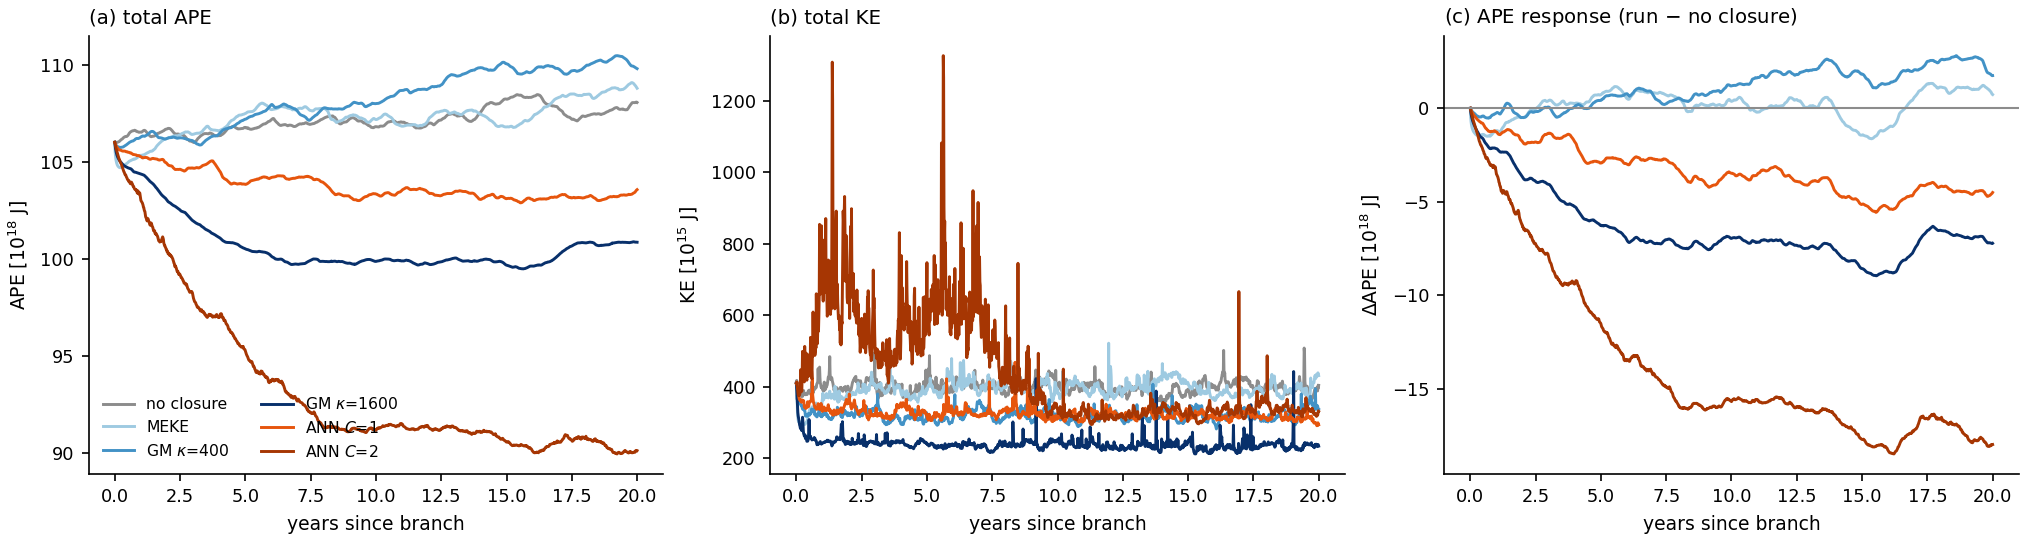
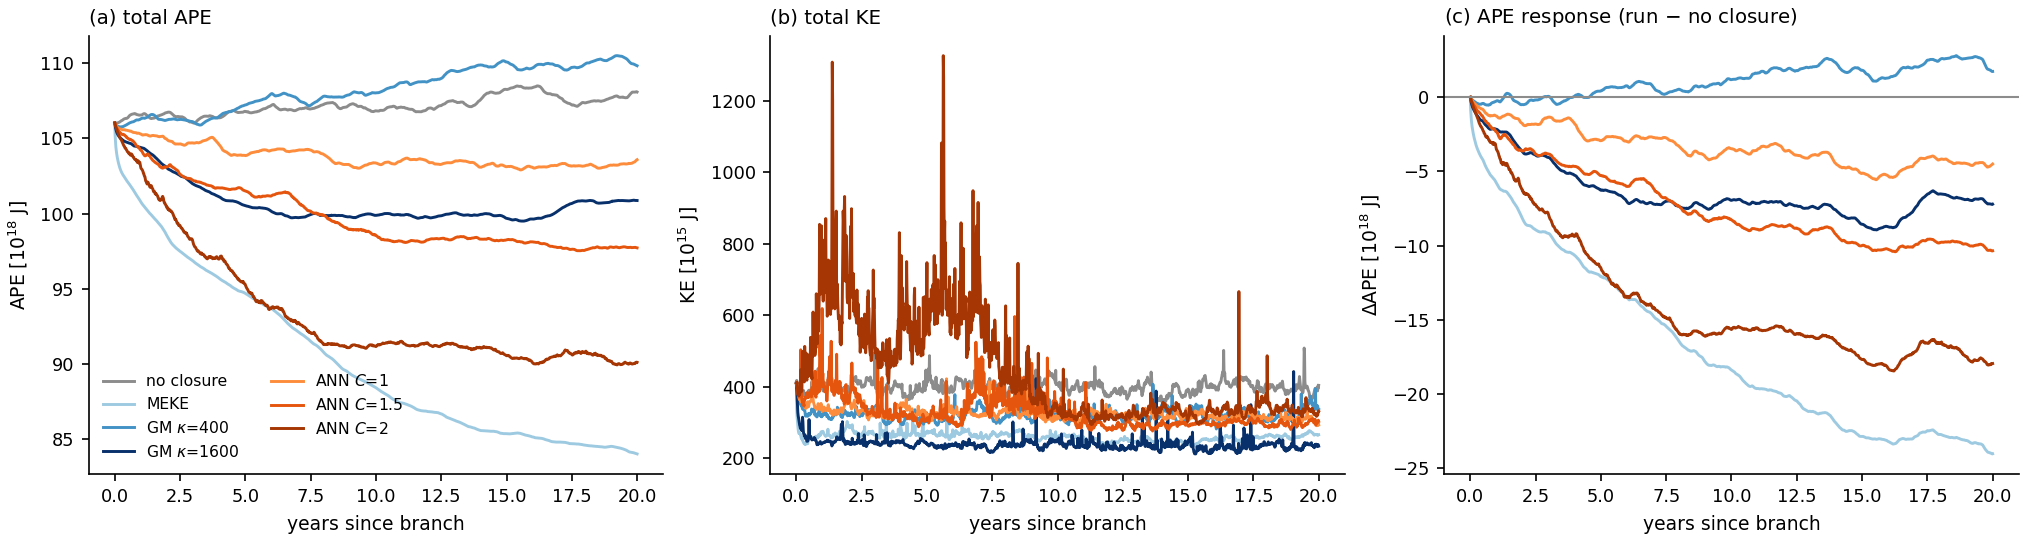
NW2: MEKE fixed + ANN C=1.5 -- C-scaling is smooth, MEKE is now the strongest closure
ANN APE response scales near-linearly (-4.6/-10.3/-18.0 for C=1/1.5/2), so C=2 is not anomalous in
APE and there is no self-limiting saturation in NW2 -- unlike the channel. KE meanwhile is
non-monotonic (77/78/84%), so tripling the APE removal costs no eddy energy: the opposite of the
diffusive trade-off. C=1.5 is the well-behaved case to rest that on (APE -10.3 vs GM1600's -7.2 at
KE 78% vs 61%). MEKE with GMCOEFF=1.0 restored is now the strongest actor (-24.0, KE 69%),
confirming the earlier diagnosis of a dead energy budget.

Claude-Session: https://claude.ai/code/session_013YxY5kSiCrM21jUwV4Z6dE

diff --git a/src/training-on-CM2.6/scripts/nw2_energy_timeseries.py b/src/training-on-CM2.6/scripts/nw2_energy_timeseries.py
@@ -14,7 +14,8 @@ import matplotlib; matplotlib.use("Agg"); import matplotlib.pyplot as plt
 B = "/scratch/db194/mom6/jul2026_nw2"
 RUNS = [("bare", "no closure", "#8c8c8c"), ("MEKE", "MEKE", "#9ecae1"),
         ("GM400", "GM $\\kappa$=400", "#4292c6"), ("GM1600", "GM $\\kappa$=1600", "#08306b"),
-        ("ANN_c1p0", "ANN $C$=1", "#e6550d"), ("ANN_c2p0", "ANN $C$=2", "#a63603")]
+        ("ANN_c1p0", "ANN $C$=1", "#fd8d3c"), ("ANN_c1p5", "ANN $C$=1.5", "#e6550d"),
+        ("ANN_c2p0", "ANN $C$=2", "#a63603")]
 
 d = {}
 for r, lab, c in RUNS:

diff --git a/src/training-on-CM2.6/scripts/nw2_first_look.py b/src/training-on-CM2.6/scripts/nw2_first_look.py
@@ -4,7 +4,7 @@ buoyancy closure by default, so bare is a true zero-closure reference). Last 5 w
 drop the adjustment measured in nw2_adjustment_timescale.py."""
 import numpy as np, xarray as xr, glob
 B = "/scratch/db194/mom6/jul2026_nw2"
-RUNS = ["bare", "GM400", "GM1600", "MEKE", "ANN_c1p0", "ANN_c2p0"]
+RUNS = ["bare", "GM400", "GM1600", "MEKE", "ANN_c1p0", "ANN_c1p5", "ANN_c2p0"]
 RHO0 = 1035.0
 
 def load(r, stream, n=5):

diff --git a/PLAN.md b/PLAN.md
@@ -228,3 +228,15 @@ Using the M1 inventory, reduce the analysis sprawl to a canonical story.
 
   **Reads consistent with §4.1 and with the κ bracket working as designed:** ANN_c1p0's mean-state response (18.4 m) lands essentially on GM400's (18.8 m) — i.e. the diagnosed κ_equiv≈783 did bracket the scheme — yet at *comparable mean-state impact* the ANN retains more eddy energy than the GM that matches it is not yet established (72% vs 75%: **statistically indistinguishable at this length**, so do NOT claim an EKE win from this table). The clean signal is instead **GM1600: double the mean-state response costs half the eddy energy (48%)**, while **ANN_c2p0 produces the LARGEST mean-state response (49.9 m) while INCREASING EKE relative to c1p0 (80% vs 72%)** — the opposite of the diffusive trade-off, and the NW2 analogue of the channel's self-limiting result. MEKE is the weakest actor here (11 m, 96% EKE). **CAVEATS before any of this goes in the paper:** single realization, 20-yr legs chosen for response emergence not mean-state convergence (interface field still drifting — see the timescale analysis), no truth comparison by design, and the ANN-vs-GM400 EKE difference is within noise. Next: ΔAPE/ΔEKE maps (port the channel estimators), then decide whether the c1p0-vs-GM400 contrast needs longer legs or an ensemble to resolve.
 - **2026-07-30 (cont 2) — NW2 MEKE run was NON-FUNCTIONAL: every energy source disabled.** Dhruv asked why MEKE's impact was so small (rms ΔAPE 63k vs GM400's 236k; EKE 96% of bare; ΔAPE +1.0e18 ≈ noise). Cause found in `MOM_parameter_doc.all`: the MEKE block inherited from the dec2025 WENO run has **`MEKE_GMCOEFF = -1.0` (disabled)** plus `MEKE_FRCOEFF = 0`, `MEKE_BHFRCOEFF = 0`, `MEKE_GMECOEFF = -1`, `MEKE_BGSRC = 0` — i.e. **no source terms whatsoever**, while `MEKE_CD_SCALE = 1` leaves bottom-drag dissipation on. The prognostic eddy energy can therefore only decay, so κ_MEKE → ~0 and the scheme does essentially nothing. **The channel's working MEKE has `MEKE_GMCOEFF = 1.0`** (GM-released PE → eddy energy: the actual source) — that one line is the whole difference. ⇒ the Phase-1 MEKE result is NOT "MEKE has little effect"; it is a broken configuration and must not be reported as a statement about the scheme. **Re-running** (job 15049515) with `MEKE_GMCOEFF = 1.0` and `MEKE_KHTH_FAC = 0.4` to match the channel's canonical MEKE, so §4.1 and §4.2 use the same scheme; broken run preserved as `MEKE_nosrc`. **Lesson for the remaining closure configs:** inherited MOM_override blocks were copied wholesale from an exploratory tree — check `MOM_parameter_doc.all` (what the model actually registered) rather than the override file for every non-ANN closure before trusting a comparison.
+- **2026-07-31 — NW2: MEKE (fixed) + ANN C=1.5 complete; the C-scaling is SMOOTH and MEKE is now the strongest actor.** Both day 37200, 15 windows, exit 0.
+
+  | run | ΔAPE vs bare [1e18 J] | KE %bare | rms Δe [m] |
+  |---|---|---|---|
+  | GM400 | **+1.9** | 89 | 18.8 |
+  | GM1600 | −7.2 | 61 | 31.9 |
+  | MEKE (GMCOEFF=1) | **−24.0** | 69 | 44.4 |
+  | ANN C=1 | −4.6 | 77 | 18.4 |
+  | ANN C=1.5 | −10.3 | 78 | 26.0 |
+  | ANN C=2 | −18.0 | 84 | 49.9 |
+
+  **(1) C=2 is NOT anomalous in APE** — the response scales smoothly and near-linearly, −4.6/−10.3/−18.0 for C=1/1.5/2 ⇒ **no self-limiting saturation in NW2**, unlike the channel where the APE slope saturated 0.91→1.00 over cb 1→4. Worth understanding before §4.2 claims anything about coefficient insensitivity: the channel result may be specific to that configuration, or NW2 is further from the saturating regime. **(2) The KE ordering is genuinely non-monotonic in C** (77/78/84%) while APE removal triples — the ANN removes more APE *without* paying in eddy energy, which is the opposite of the diffusive trade-off and the clearest ANN-vs-GM contrast we have. But C=2's KE trace still shows the large early transients (panel b), so I would rest the claim on **C=1.5, which is well-behaved and already shows it** (APE −10.3 vs GM1600's −7.2, i.e. MORE APE removed, at KE 78% vs 61%). **(3) MEKE with its source restored is now the STRONGEST closure** (ΔAPE −24.0, rms Δe 44.4 m, KE 69%) — a complete reversal of the broken run, confirming the diagnosis. It removes ~2.3× the APE of ANN C=1.5 but costs more eddy energy per unit APE removed. **Caveat unchanged:** single realizations, still drifting at 20 yr (panel a), no truth comparison by design. **The ANN C=1 vs GM400 comparison remains the weak link** (72 vs 75% EKE, within noise) — needs a second realization of just those two if §4.2 leans on it.
